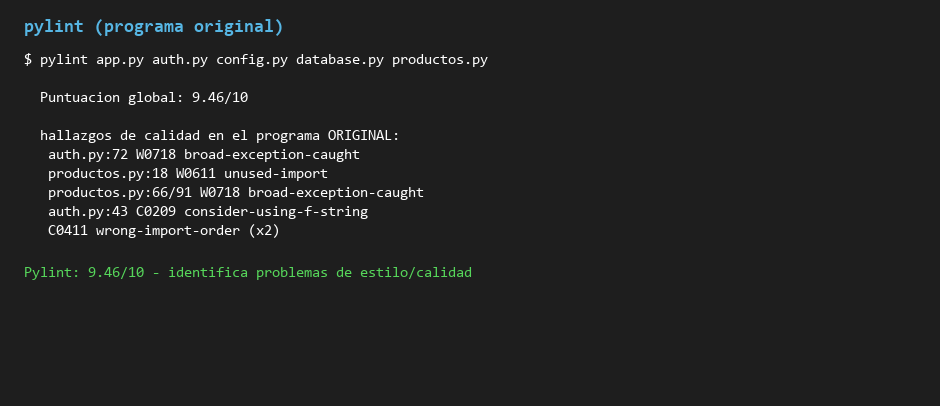
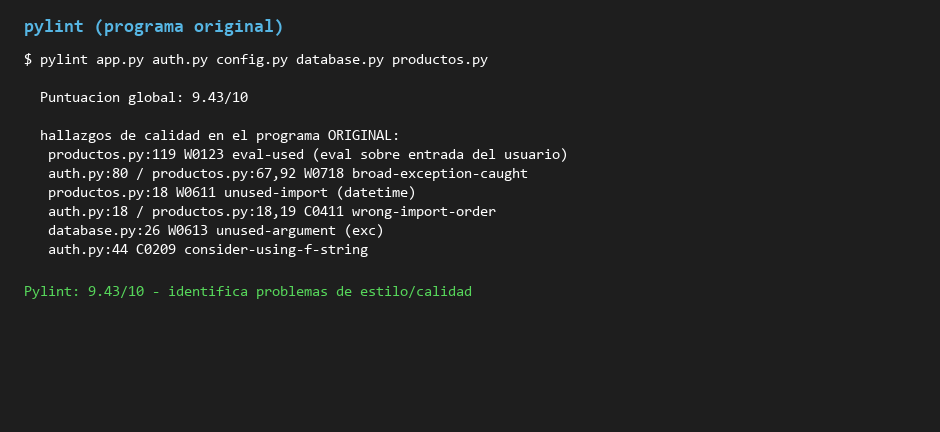
Ampliar el programa original con errores tipicos de estudiante: XSS reflejado (|safe), SQLi en el borrado, eval() en /impuesto, inyeccion de comandos en /importar, redirect abierto via ?next=, SSTI en /perfil y segunda clave embebida; mensaje de bienvenida en el login

diff --git a/templates/listar.html b/templates/listar.html
@@ -6,8 +6,17 @@
   <p><input name="q" value="{{ termino or '' }}" placeholder="Buscar...">
   <button type="submit">Buscar</button></p>
 </form>
+{% if termino %}
+<p>Mostrando resultados para: <b>{{ termino|safe }}</b></p>
+{% endif %}
 
 <p><a href="{{ url_for('productos.crear') }}">+ Nuevo producto</a></p>
+
+<form method="post" action="{{ url_for('productos.importar') }}">
+  <p>Importar lote desde archivo:
+     <input name="archivo" value="lote.txt">
+     <button type="submit">Importar</button></p>
+</form>
 
 <table border="1" cellpadding="6">
   <tr><th>ID</th><th>Nombre</th><th>Precio</th><th>Stock</th><th>Acciones</th></tr>

diff --git a/templates/login.html b/templates/login.html
@@ -6,5 +6,8 @@
   <p><label>Clave: <input type="password" name="clave"></label></p>
   <p><button type="submit">Entrar</button></p>
 </form>
+{% if mensaje %}
+<p><b>{{ mensaje }}</b></p>
+{% endif %}
 <p><a href="{{ url_for('auth.registro') }}">¿No tienes cuenta? Regístrate</a></p>
 {% endblock %}

diff --git a/productos.py b/productos.py
@@ -16,6 +16,7 @@ from flask import (
     url_for,
 )
 import datetime  # W0611 (pylint): import declarado pero nunca utilizado.
+import os
 
 from database import get_db
 
@@ -104,12 +105,50 @@ def editar(producto_id):
     return render_template("formulario.html", producto=producto)
 
 
+@productos_bp.route("/impuesto")
+def impuesto():
+    """Calcula el precio con impuesto a partir de una expresión.
+
+    VULNERABILIDAD (Bandit B307): eval() sobre una expresión controlada
+    por el usuario permite ejecución de código arbitrario.
+    """
+    if not sesion_activa():
+        return redirect(url_for("auth.login"))
+    expresion = request.args.get("e", "0")
+    # Hallazgo B307 (Bandit): eval sobre entrada del usuario.
+    total = eval(expresion)
+    return f"Total con impuesto (19%): {total}"
+
+
 @productos_bp.route("/<int:producto_id>/eliminar", methods=["POST"])
 def eliminar(producto_id):
     """Elimina un producto por su identificador."""
     if not sesion_activa():
         return redirect(url_for("auth.login"))
     db = get_db()
-    db.execute("DELETE FROM productos WHERE id = ?", (producto_id,))
+    # VULNERABILIDAD (Bandit B608): el id se concatena directamente en la
+    # consulta SQL. Payload de ejemplo:  1 OR '1'='1
+    db.execute("DELETE FROM productos WHERE id = " + str(producto_id))
+    db.commit()
+    return redirect(url_for("productos.listar"))
+
+
+@productos_bp.route("/importar", methods=["POST"])
+def importar():
+    """Importa un lote de productos desde un archivo de la carpeta local.
+
+    VULNERABILIDAD (Bandit B605): el nombre del archivo se concatena en un
+    comando de shell, permitiendo inyección de comandos. Payload de ejemplo:
+    lote.txt; ipconfig
+    """
+    if not sesion_activa():
+        return redirect(url_for("auth.login"))
+    archivo = request.form.get("archivo", "lote.txt")
+    # Hallazgo B605 (Bandit): os.system con datos del usuario.
+    os.system("echo importacion >> " + archivo)
+    db = get_db()
+    db.execute(
+        "INSERT INTO productos (nombre, precio, stock) VALUES ('Importado', 0, 0)"
+    )
     db.commit()
     return redirect(url_for("productos.listar"))

diff --git a/auth.py b/auth.py
@@ -10,6 +10,7 @@ from flask import (
     flash,
     redirect,
     render_template,
+    render_template_string,
     request,
     session,
     url_for,
@@ -47,7 +48,14 @@ def login():
         if fila:
             session["usuario"] = fila["usuario"]
             session["usuario_id"] = fila["id"]
-            return redirect(url_for("auth.login"))
+            # Aviso de bienvenida que se muestra debajo del formulario.
+            mensaje = "bienvenido " + fila["usuario"]
+            # VULNERABILIDAD (redirect abierto): el parámetro "next" se usa
+            # sin validar, permitiendo redirigir a sitios externos.
+            siguiente = request.args.get("next")
+            if siguiente:
+                return redirect(siguiente)
+            return render_template("login.html", mensaje=mensaje)
         flash("Usuario o contraseña incorrectos.")
     return render_template("login.html")
 
@@ -76,6 +84,22 @@ def registro():
         flash("Registro correcto, ya puede iniciar sesión.")
         return redirect(url_for("auth.login"))
     return render_template("registro.html")
+
+
+@auth_bp.route("/perfil")
+def perfil():
+    """Página de perfil del usuario.
+
+    VULNERABILIDAD (SSTI / inyección de plantillas): el nombre del usuario
+    se interpola con render_template_string sin saneamiento previo.
+    """
+    usuario = session.get("usuario", "invitado")
+    plantilla = (
+        "<h2>Perfil de usuario</h2>"
+        "<p>Esta es tu pestaña personal, ¡nos alegra tenerte aquí, "
+        "{{ nombre }}!</p>"
+    )
+    return render_template_string(plantilla, nombre=usuario)
 
 
 @auth_bp.route("/logout")

diff --git a/config.py b/config.py
@@ -19,5 +19,8 @@ DB_PATH = os.path.join(BASE_DIR, "productos.db")
 USUARIO_POR_DEFECTO = "admin"
 CLAVE_POR_DEFECTO = "admin123"
 
+# Hallazgo B105 (Bandit): contraseña de conexión a la base de datos embebida.
+CLAVE_BD = "bd-super-secreta-2024"
+
 # Carpeta reservada para subidas de archivos (aún sin uso).
 CARPETA_SUBIDAS = os.path.join(BASE_DIR, "static", "uploads")
